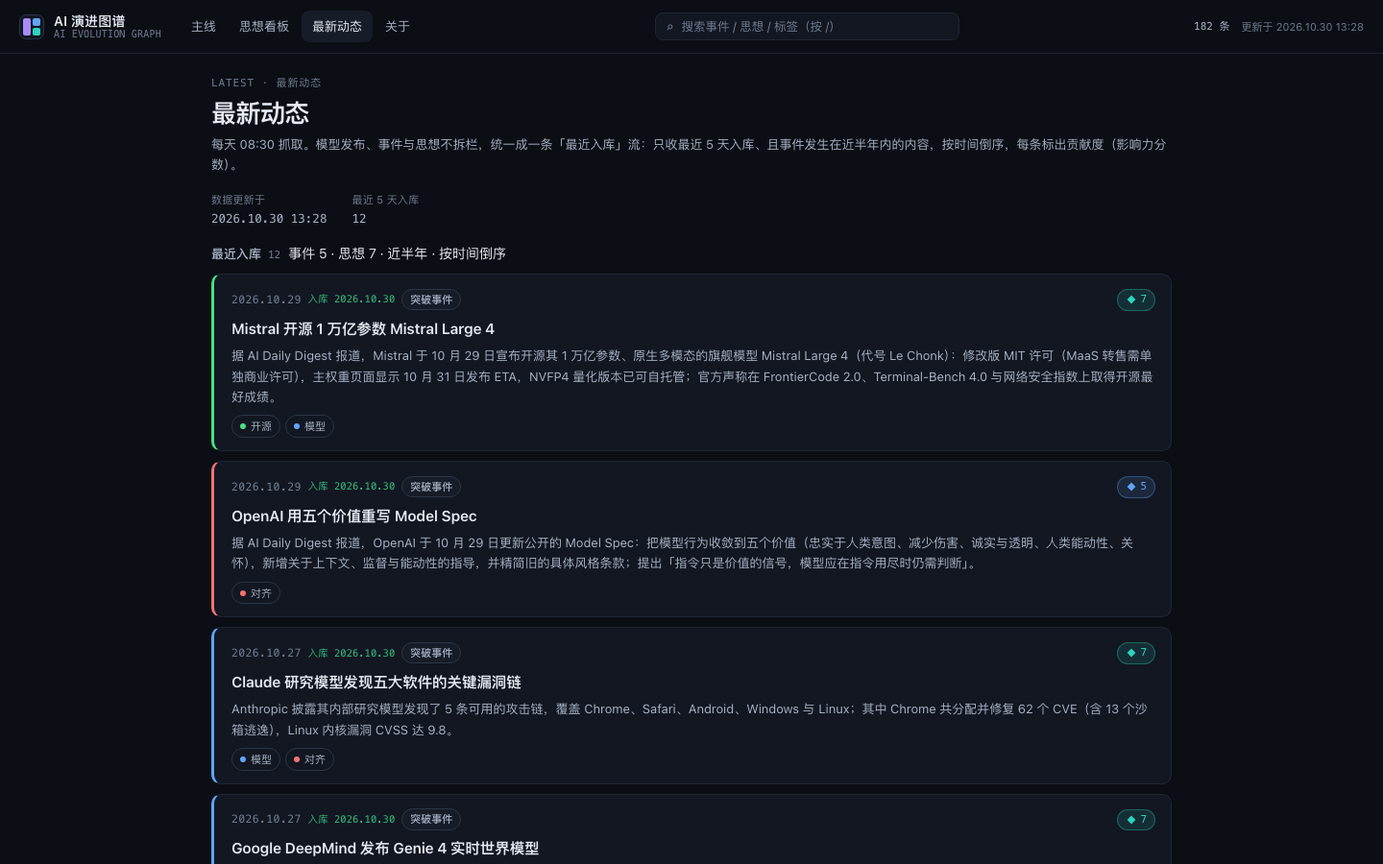
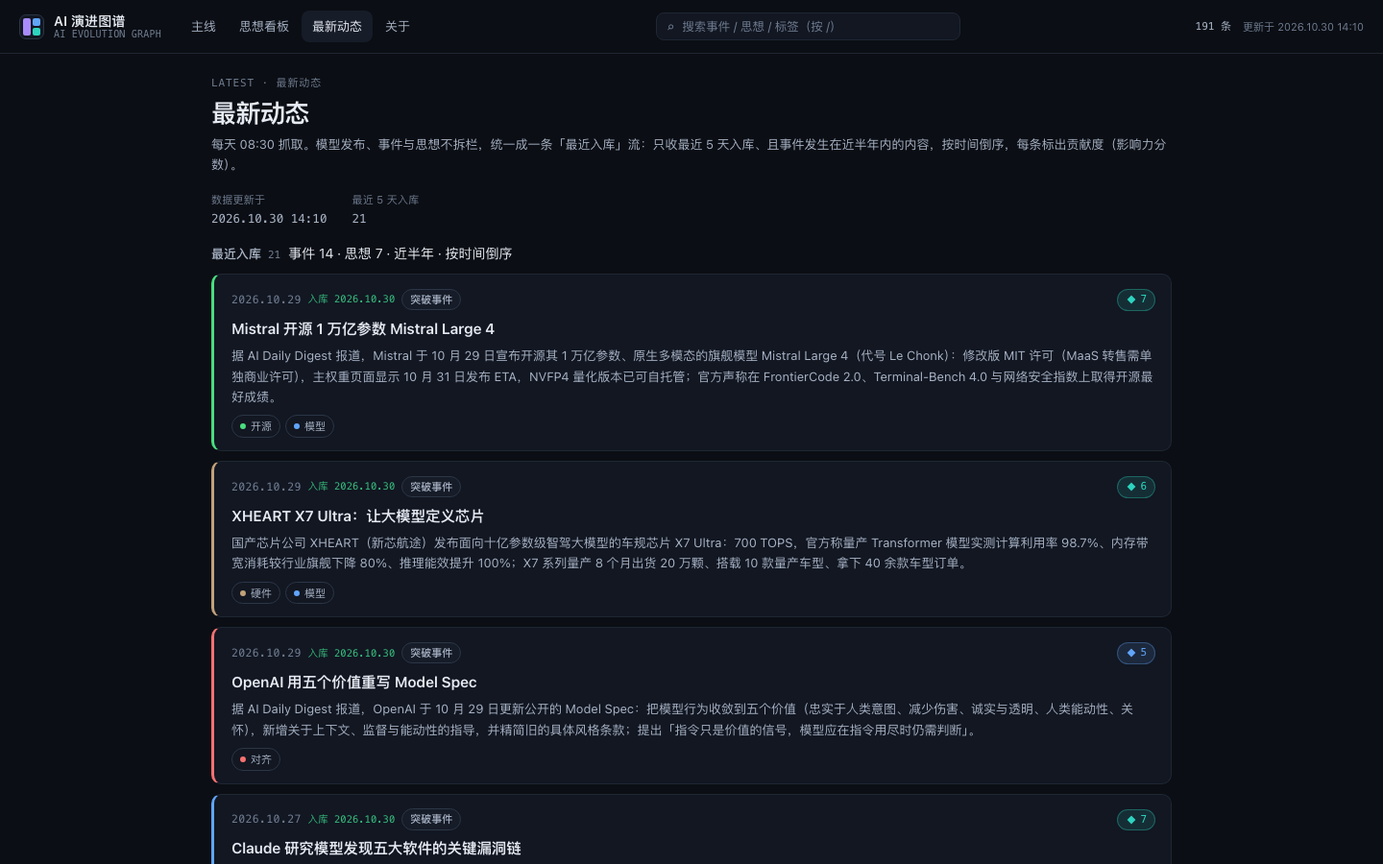
feat(domestic): 补齐国内模型/市场/算力覆盖 + 每日更新必扫清单
- 新增 9 条国内数据（182→191）：Kimi K3.1 Pro、讯飞星火 X2.6、国产算力份额与订单、XHEART X7 Ultra、DeepSeek DeepInfer、高德 λ0、讯飞星辰 TaaS、蚂蚁 LingDT、国产大模型融资；统一打「国内」tag
- 新增 docs/SOURCES.md：机器之心/量子位/腾讯科技等微信公众号 + 厂商/财经/算力/政策源清单、抓取方式与可靠性分级
- docs/UPDATE.md 与每日 08:30 定时任务提示词加入「国内模型/市场/算力/政策/终端」必扫清单与汇报要求（不可遗漏）
- DECISIONS §16 记录覆盖政策；STATUS/M4-ACCEPTANCE 更新
- validate:strict 0/0、42 单测、QA 75/75、build 196 静态页/197 URL

diff --git a/docs/UPDATE.md b/docs/UPDATE.md
@@ -1,7 +1,7 @@
 # 每日更新流程（UPDATE）
 
 目标：**每天更新一次**，新事件/新思想按 `date`（时间轴位置）与 `importance`（面积/评分）自动归位，无需手工摆放。
-本期执行者：Lead（Agent）。部署到 GitHub/Vercel 后迁移为 CI 定时任务（见 §5）。
+本期执行者：Lead（Agent）。信息源清单见 `docs/SOURCES.md`（国内媒体/厂商/算力/市场），每日必须覆盖国内方向。部署到 GitHub/Vercel 后迁移为 CI 定时任务（见 §5）。
 
 ## 1. 触发时间
 
@@ -10,17 +10,23 @@
 
 ## 2. 单次更新步骤
 
-1. **抓取候选**（Web）：官方博客优先、权威媒体次之。
-   - OpenAI：https://openai.com/news/
-   - Anthropic：https://www.anthropic.com/news
-   - Google DeepMind：https://deepmind.google/discover/blog/
-   - Meta AI：https://ai.meta.com/blog/
-   - Google AI：https://blog.google/technology/ai/
-   - Hugging Face：https://huggingface.co/blog
-   - arXiv 最新：https://arxiv.org/list/cs.CL/recent 、https://arxiv.org/list/cs.LG/recent
-   - Hacker News AI：https://news.ycombinator.com/
-   - 中文源（可选）：机器之心、量子位、智源社区
+1. **抓取候选**（Web）：完整源清单见 `docs/SOURCES.md`，每天必须国内 + 海外两边都扫。
+   - 海外官方：OpenAI / Anthropic / Google DeepMind / Meta AI / Google AI / Hugging Face；
+   - 论文：arXiv cs.CL、cs.LG、cs.AI 最新；
+   - 海外社区与媒体：Hacker News、TechCrunch、The Information；
+   - **国内科技媒体（微信公号 + 官网）**：机器之心、量子位、腾讯科技、新智元、智东西、36 氪、晚点 LatePost、科技日报/中国科技网、DeepTech 深科技、硅星人、甲子光年；
+   - **国内市场与资本**：证券时报、21 世纪经济报道、第一财经、财新、界面新闻、同花顺/券商研报摘要（注明「券商观点」）、投资界；
+   - **国内厂商一手**：DeepSeek、阿里通义、月之暗面 Kimi、智谱、字节 Seed/豆包、腾讯混元、百度文心、科大讯飞、MiniMax、阶跃星辰、商汤、高德/阿里 ATH、蚂蚁数科、华为昇腾、寒武纪、摩尔线程、沐曦、壁仞、海光、中芯国际、长鑫存储；
+   - 微信公众号无稳定列表页：用官网/网易号/搜狗微信发现线索，引用时以官网正文 URL 作为 `sources`。
 2. **筛选**：仅收最近 24–72 小时、与 AI 直接相关、影响力 ≥ 4 分的条目；思想/观点类优先（用户强调「新思想非常细、非常有价值」）。
+   **覆盖清单（每天逐项扫，不可遗漏国内方向）**：
+   - 国内模型：发布/开源/权重放出、能力或价格变化；
+   - 国内市场：融资/IPO、价格战、商业化与收入、大厂资本开支；
+   - AI 算力：国产芯片产品与订单、超节点/集群、IDC 份额、出口管制与供应链（HBM/光模块/存储）、智算中心与电力；
+   - 政策与监管：备案、标准、算力券、地方政策；
+   - 具身智能/终端：机器人基座模型、车规芯片、AI 手机/PC；
+   - 全球前沿：模型、论文、agent、评测与安全。
+   国内方向每天至少检查一轮；有重要动态必须入库，确无动态要在汇报里写明「已扫描，无重要新增」。
 3. **起草**：写入 `data/entries/<id>.md`：
    - `date` = 事件公开日期（不是抓取日期）；
    - `added_at` = 今天（用于 NEW 标记）；
@@ -75,6 +81,8 @@
 
 ## 6. 质量红线（更新时必须遵守）
 
+- **国内模型 / 市场 / AI 算力三类方向每天必扫**：不得只看海外；有重要动态必须入库（源清单见 docs/SOURCES.md），无动态要明确说明已扫描；
+- 国内数字（份额、融资额、出货量、增速）必须注明来源与口径；券商研报标注「券商观点」，不当作既成事实；
 - 思想主题要**持续被讨论**：每个主题最新步骤 ≥ 2025，且 2024 年后 ≥ 2 条（validate 会打印主题新鲜度表）；
 - 创新雷达是「旧路径上的新方向」：必须有 `thought_chain`/`maturity`/`why_underrated`，且所属主题至少有 2 条非雷达步骤托底；全库 ≤ 8 条；
 - 最新动态只展示最近 5 天 `added_at` 的入库条目（事件/思想两块），且事件日期须在近 180 天内；补历史不写 `added_at`；

diff --git a/docs/SOURCES.md b/docs/SOURCES.md
@@ -1,0 +1,57 @@
+# 信息源清单（每日更新与选题用）
+
+> 用途：docs/UPDATE.md 的源清单；每日更新必须覆盖「国内模型 / 市场 / 算力」等方向，不能只看海外。
+> 原则：**官方一手 > 主流财经/科技媒体 > 券商研报（注明口径）> 聚合与自媒体**；数字必须注明来源与口径，拿不准就 `needs_review: true`。
+
+## 1. 国内科技媒体（微信公众号 + 官网）
+
+| 媒体 | 官网/入口 | 强项 |
+|---|---|---|
+| 机器之心 | https://www.jiqizhixin.com/ | 论文、模型技术、产业 |
+| 量子位 | https://www.qbitai.com/ | 模型发布、具身智能、产品 |
+| 腾讯科技 | https://tech.qq.com/ | 大厂动态、商业化、访谈 |
+| 新智元 | 微信公众号 / 网易号同步 | 模型与芯片发布、快讯 |
+| 智东西 | https://zhidx.com/ | 芯片、硬件、机器人 |
+| 36 氪 | https://36kr.com/ | 融资、商业化、快讯 |
+| 晚点 LatePost | https://www.latepost.com/ | 大厂组织、战略、深度 |
+| 中国科技网/科技日报 | https://www.stdaily.com/ | 官方科技发布、国产算力 |
+| DeepTech 深科技 | 微信公众号 | 硬科技、芯片 |
+| 硅星人 / APPSO | 微信公众号 | 产品与硅谷视角 |
+| 甲子光年 | 微信公众号 | 产业与投资 |
+
+> 微信公众号没有稳定的公开列表页：用**官网/网易号/搜狗微信**发现线索，引用时以**官网正文 URL**为准。
+
+## 2. 国内厂商官方渠道（一手）
+
+- 模型：DeepSeek、阿里通义/Qwen、月之暗面 Kimi、智谱、字节 Seed/豆包、腾讯混元、百度文心、科大讯飞星火、MiniMax、阶跃星辰、商汤、面壁、零一万物、百川。
+- 产品/终端：高德（阿里 ATH）、蚂蚁数科、华为、小米、OPPO/vivo、荣耀。
+- 算力/芯片：华为昇腾、寒武纪、摩尔线程、沐曦、壁仞、海光、景嘉微、燧原、中芯国际、长鑫存储、长江存储、浪潮信息、工业富联。
+- 政策/监管：工信部、国家网信办、国家发改委、科技部。
+
+## 3. 市场与资本
+
+- 证券时报 https://www.stcn.com/ · 21 世纪经济报道 · 第一财经 · 财新 · 界面新闻
+- 同花顺/东方财富的券商研报摘要（注明「券商观点」，不当作事实）
+- IT 桔子、投资界（融资事件）
+
+## 4. 海外前沿（保持原有）
+
+OpenAI / Anthropic / Google DeepMind / Meta AI / Hugging Face / arXiv(cs.CL, cs.LG, cs.AI) / Hacker News / TechCrunch / The Information / X 官方账号。
+
+## 5. 每日覆盖清单（必须逐项扫，不能遗漏）
+
+1. **国内模型**：新模型发布/开源/权重放出、能力或价格变化、重要技术报告。
+2. **国内市场**：融资/IPO、价格战、商业化与收入、用户规模、大厂资本开支、并购。
+3. **AI 算力**：国产芯片（昇腾/寒武纪/摩尔线程/沐曦/壁仞等）产品与订单、超节点/集群、IDC 份额、出口管制与供应链（HBM/光模块/存储）、智算中心与电力。
+4. **政策与监管**：备案、标准、算力券、地方政策、AI 法案。
+5. **具身智能/终端**：机器人基座模型、车规芯片、AI 手机/PC。
+6. **全球前沿**：模型、论文、agent、评测与安全。
+
+## 6. 判定「值得入库」的标准
+
+- 影响竞争格局：份额、定价、供给、政策变化；
+- 影响开发/使用：新模型、新 API、新框架、成本变化；
+- 影响叙事：关键人物的关键判断、新的技术路线；
+- 数据可核：有日期、数字、来源；不确定的标 `needs_review`，不编造。
+
+> 每日更新时，若上述方向当天确无重要动态，要在汇报里写「已扫描 XX，无重要新增」，而不是默默跳过。

diff --git a/data/entries/domestic-ai-compute-orders-2026.md b/data/entries/domestic-ai-compute-orders-2026.md
@@ -1,0 +1,34 @@
+---
+id: "domestic-ai-compute-orders-2026"
+type: "event"
+title: "国产算力：份额、订单与资本开支同步上行"
+title_en: "China Domestic AI Compute: Share, Orders, Capex"
+date: "2026-10-25"
+importance: 7
+categories: [hardware, org, model]
+summary: "开源证券 10 月 25 日研报梳理国产算力：华为昇腾 384 超节点已部署 750 余套；IDC 数据显示 2025 年中国 AI 加速卡国产厂商份额 41%，2026 上半年英伟达降至 34%、昇腾以 28% 紧随；摩尔线程、沐曦、壁仞、寒武纪 2025 年收入分别同比增长 243.84%、121.27%、207.19%、453.41%，腾讯、阿里、字节资本开支集体上修。"
+significance: "这是「国产替代」从政策叙事变成财务与份额数据的时点：国产卡进入年度迭代节奏，训推分线让国产卡成为重要选项，互联网大厂资本开支上修则给了需求侧支撑。算力供给结构正在被重新分配。"
+quote: ""
+speaker: ""
+occasion: ""
+my_comment: "单季收入暴涨有低基数因素，真正的考验是明年订单交付与生态（编译器、算子、集群稳定性）能否跟上。"
+tags: [国内, 算力, 昇腾, 寒武纪, 国产替代, IDC]
+sources:
+  - "http://field.10jqka.com.cn/20261026/c681060212.shtml"
+relations: []
+needs_review: false
+node_kind: concept
+added_at: 2026-10-30
+---
+
+## 背景
+
+2026 年，AI 算力供给成为中美技术竞争的核心变量。国产 GPU/加速卡经历数年投入后，开始进入规模交付期。
+
+## 核心观点
+
+研报给出的关键数据：昇腾 384 超节点部署 750 余套；IDC 统计 2025 年中国 AI 加速卡国产厂商份额 41%，2026 上半年英伟达份额降至 34%、昇腾 28%；四家国产厂商 2025 年收入同比增速在 121%–453% 之间；腾讯、阿里、字节资本开支集体上修。
+
+## 为什么今天还要读
+
+它把「国产算力行不行」从观点争论变成可跟踪的份额、订单与营收曲线。对判断模型训练成本、推理价格与供应链风险都有直接意义。

diff --git a/data/entries/xheart-x7-ultra-2026.md b/data/entries/xheart-x7-ultra-2026.md
@@ -1,0 +1,35 @@
+---
+id: "xheart-x7-ultra-2026"
+type: "event"
+title: "XHEART X7 Ultra：让大模型定义芯片"
+title_en: "XHEART X7 Ultra"
+date: "2026-10-29"
+importance: 6
+categories: [hardware, model]
+summary: "国产芯片公司 XHEART（新芯航途）发布面向十亿参数级智驾大模型的车规芯片 X7 Ultra：700 TOPS，官方称量产 Transformer 模型实测计算利用率 98.7%、内存带宽消耗较行业旗舰下降 80%、推理能效提升 100%；X7 系列量产 8 个月出货 20 万颗、搭载 10 款量产车型、拿下 40 余款车型订单。"
+significance: "「先理解大模型再设计芯片」是国产芯片在细分场景里绕开通用 GPU 正面竞争的一条路径：用模型侧的真实数据反推架构，把算力利用率与内存带宽做成卖点。智驾是国产大模型芯片最先跑出规模的车规场景。"
+quote: ""
+speaker: ""
+occasion: ""
+my_comment: "98.7% 利用率是厂商口径，需要第三方与真实车队验证；但它至少说明「模型—芯片协同设计」在工程上可行。"
+tags: [国内, 芯片, 智驾, 车规, 大模型定义芯片]
+sources:
+  - "https://www.163.com/dy/article/LAGAB30J0511ABV6.html"
+  - "https://www.163.com/dy/article/LAEAUNQ50527EIDC.html"
+relations: []
+needs_review: false
+node_kind: model
+added_at: 2026-10-30
+---
+
+## 背景
+
+智驾从「小模型流水线」转向端到端大模型后，通用芯片在带宽、精度与能效上开始吃紧。XHEART 选择用合作方 Momenta 的量产模型数据来反向定义芯片架构。
+
+## 核心观点
+
+X7 Ultra 面向十亿参数级智驾大模型：超大核 NPU、专用算子加速、NPU 内部并行、整网内存零拷贝工具链；官方给出 700 TOPS、计算利用率 98.7%、内存带宽 -80%、能效 +100%，并称 X7 系列 8 个月出货 20 万颗。
+
+## 为什么今天还要读
+
+它是「模型定义芯片」这条路径的国产样本：在通用算力受限的背景下，垂直场景 + 软硬协同可能是更现实的突破口。

diff --git a/data/entries/amap-lambda0-2026.md b/data/entries/amap-lambda0-2026.md
@@ -1,0 +1,34 @@
+---
+id: "amap-lambda0-2026"
+type: "event"
+title: "高德发布全身基座模型 λ0：用人类动作数据学全身协调"
+title_en: "Amap Lambda0 Whole-Body Foundation Model"
+date: "2026-10-23"
+importance: 6
+categories: [model, product]
+summary: "高德发布首个基于开放世界行为的全身基座模型 λ0：仅用人类行动数据训练机器人学习移动、姿态与双手操作的全身协调；在 SIMPLE 仿真与多项真机评测中取得 SOTA，数据采集效率约为主流方法的 3.4 倍、真机任务成功率较最强基线提升 22.5%，并开源硬件配置代码与 HumanVerse 数据样例。"
+significance: "它把具身智能的数据瓶颈从「昂贵真机遥操」转向「消费级设备随身采集人类全身动作」，并用人类数据实现零样本跨本体迁移。对国产具身智能路线，这是一条降低成本、可规模化扩数据的方向。"
+quote: ""
+speaker: ""
+occasion: ""
+my_comment: "「人类数据→机器人」的关键在动作对齐与跨本体迁移；22.5% 的提升需要更多任务与第三方复现来确认。"
+tags: [国内, 高德, 具身智能, 全身基座, 人形机器人]
+sources:
+  - "https://www.qbitai.com/2026/10/504905.html"
+relations: []
+needs_review: false
+node_kind: model
+added_at: 2026-10-30
+---
+
+## 背景
+
+现有 VLA 基座多聚焦手部或局部操作，缺少全身协调数据；真机遥操采集又贵又慢，成为具身智能规模化的瓶颈。
+
+## 核心观点
+
+λ0 用消费级设备采集人类全身动作，构建 HumanVerse-500（500 小时开放世界全身数据），通过视角匹配与由粗到细的动作对齐做跨本体迁移；七个全身协调任务上实现零样本真机迁移，采集效率约为真机遥操的 3.4 倍。
+
+## 为什么今天还要读
+
+它给出了一条绕开「机器人采数据」的路径：先把人类经验规模化，再迁移到机器人。若可复现，这会显著改变具身智能的数据成本结构。

diff --git a/data/entries/iflytek-spark-x2-6-2026.md b/data/entries/iflytek-spark-x2-6-2026.md
@@ -1,0 +1,35 @@
+---
+id: "iflytek-spark-x2-6-2026"
+type: "event"
+title: "讯飞星火 X2.6：全国产算力上训练出智能体能力"
+title_en: "iFlytek Spark X2.6"
+date: "2026-10-22"
+importance: 7
+categories: [model, hardware]
+summary: "科大讯飞在 1024 开发者节发布端云一体星火 X2.6：上下文扩至百万 token，首次基于全国产算力实现代码与智能体能力突破；官方称超长上下文训练效率提升约 4 倍、国产集群推理效率提升 4.5 倍，并开源 X2.6-4B 端侧模型。"
+significance: "它把「国产算力只够推理」的质疑推向「训练也能跑通」：全栈国产算力 + 端云一体是国产大模型的一条差异化路线，对算力自主可控的讨论有直接参考价值。"
+quote: ""
+speaker: ""
+occasion: ""
+my_comment: "国产卡训练前沿模型的真实成色，最终要看第三方复现与持续迭代，而不是单场发布会。"
+tags: [国内, 科大讯飞, 国产算力, 端云一体, 智能体]
+sources:
+  - "https://www.stdaily.com/web/gdxw/2026-10/23/content_601627.html"
+  - "https://www.qbitai.com/2026/10/505083.html"
+relations: []
+needs_review: false
+node_kind: model
+added_at: 2026-10-30
+---
+
+## 背景
+
+国产 AI 芯片长期被质疑「能推理、难训练」。科大讯飞在 2026 全球 1024 开发者节上发布端云一体星火 X2.6，并强调训练与推理都在全国产算力上完成。
+
+## 核心观点
+
+官方数据：百万 token 上下文；长程任务动态并行训练让超长上下文训练效率提升约 4 倍；国产集群上的自适应存算协同推理与四层 KVCache 让推理效率提升 4.5 倍；端云路由准确率从 81.2% 提升到 96.1%；X2.6-4B 端侧模型开源。
+
+## 为什么今天还要读
+
+它给出了「全栈自主可控」的一条完整叙事：不只是把模型搬到国产卡上推理，而是在国产平台上完成训练。这条路线能否规模化，取决于后续模型迭代与第三方评测。

diff --git a/docs/STATUS.md b/docs/STATUS.md
@@ -24,7 +24,7 @@
 - 最新动态 v4：单一「最近入库」流（不再拆事件/思想），窗口=近 5 天入库 + 事件近 180 天；按时间倒序；每条标类型与影响力分数；创新雷达仅中性小标签
 - 搜索：加权、高亮、类别/年份/影响力筛选、URL 状态、`/` 快捷键
 - 每日更新：会话内 08:30 定时（新闻+创新信号 → 校验/构建 → `curate:apply` 主线晋升淘汰）
-- 数据：182 条（171 条 2012+ / 11 条奠基），40 insight，24 needs_review，来源覆盖 98%；11 个思想主题共 90 步
+- 数据：191 条（180 条 2012+ / 11 条奠基），41 insight，24 needs_review，来源覆盖 98%；11 个思想主题共 90 步；本轮新增 9 条国内覆盖（Kimi K3.1 Pro、讯飞星火 X2.6、国产算力份额/订单、XHEART 芯片、DeepInfer、高德 λ0、星辰 TaaS、LingDT、大模型融资）
 - 数据治理：`MAINLINE_CAP=32`，重要性≥8 可晋升，满则淘汰最低分（10 分保护）
 
 ## 未决（不阻塞，等用户拍板）
@@ -54,4 +54,4 @@ npm run qa:ui       # 无头 Chrome 验收（75 项，含导图视图）
 
 ## 文档地图
 
-`docs/DECISIONS.md`（为什么这样做，§13 是本轮新定义）· `docs/PROPOSAL-M4.md`（本轮方案）· `docs/M4-ACCEPTANCE.md`（本轮验收）· `docs/UPDATE.md`（加条目）· `docs/DEPLOY.md`（发布/部署）· `docs/SEO.md` · `docs/DOMESTIC-LAUNCH.md`（国内上线）· `docs/BEGINNER-GUIDE.md` · `docs/M1–M3.5-ACCEPTANCE.md`（各里程碑验收）
+`docs/DECISIONS.md`（为什么这样做，§13–§16 是本轮定义）· `docs/SOURCES.md`（信息源清单：国内媒体/厂商/算力/市场）· `docs/PROPOSAL-M4.md`（本轮方案）· `docs/M4-ACCEPTANCE.md`（本轮验收）· `docs/UPDATE.md`（加条目）· `docs/DEPLOY.md`（发布/部署）· `docs/SEO.md` · `docs/DOMESTIC-LAUNCH.md`（国内上线）· `docs/BEGINNER-GUIDE.md` · `docs/M1–M3.5-ACCEPTANCE.md`（各里程碑验收）

diff --git a/data/entries/kimi-k3-1-pro-2026.md b/data/entries/kimi-k3-1-pro-2026.md
@@ -1,0 +1,34 @@
+---
+id: "kimi-k3-1-pro-2026"
+type: "event"
+title: "Kimi K3.1 Pro：3T 级开源权重模型"
+title_en: "Kimi K3.1 Pro"
+date: "2026-10-23"
+importance: 7
+categories: [model, opensource]
+summary: "月之暗面发布 Kimi K3.1 Pro：3T 级开源权重模型、100 万 token 上下文，主打编程、3D 创作与金融研究等智能体能力；Terminal-Bench 4.0 得分 65.7%，官方称完整权重将于 11 月 4 日前开放。"
+significance: "这是国产模型在「开源权重 + 前沿能力」组合上的又一次冲顶：3T 级规模、百万上下文、智能体基准接近闭源头部，并把开放权重的时间表写进发布页。它把「开源模型只能追赶」的叙事又往前推了一步。"
+quote: ""
+speaker: ""
+occasion: ""
+my_comment: "开源权重已经是国产模型争夺开发者与话语权的主战场；真正要观察的是权重放出后的真实可用性与后续迭代速度。"
+tags: [国内, Kimi, 月之暗面, 开源权重, 长上下文, 智能体]
+sources:
+  - "https://www.kimi.ai/blog/kimi-k3-1-pro"
+relations: []
+needs_review: false
+node_kind: model
+added_at: 2026-10-30
+---
+
+## 背景
+
+2026 年下半年，开源权重模型的参数规模与能力持续上探。Kimi K3.1 Pro 是 K3 的后训练版本，官方把它定位为「3T 级开源权重模型」，并首次把百万 token 上下文与智能体能力打包发布。
+
+## 核心观点
+
+官方技术博客给出的重点：编程、3D 创作、金融研究与智能体任务全面增强；Terminal-Bench 4.0 得分 65.7%，Kimi Code Bench 3.0 Long-horizon 61.2%；权重将在 11 月 4 日前放出。发布同时上线 Kimi.ai、Kimi Work、Kimi Code 与 API。
+
+## 为什么今天还要读
+
+它代表国产模型的两条线同时推进：能力追前沿、权重更开放。对开发者而言，「等权重放出后本地能跑成什么样」比发布日的榜单分数更值得跟踪。

diff --git a/data/entries/deepseek-deepinfer-2026.md b/data/entries/deepseek-deepinfer-2026.md
@@ -1,0 +1,34 @@
+---
+id: "deepseek-deepinfer-2026"
+type: "event"
+title: "DeepSeek 开源内部推理框架 DeepInfer"
+title_en: "DeepSeek Open-Sources DeepInfer"
+date: "2026-10-20"
+importance: 6
+categories: [opensource, model]
+summary: "DeepSeek 于 10 月 20 日宣布将内部推理框架 DeepInfer 全面开源，称希望把大规模部署经验开放给开发者与企业，优化吞吐与延迟、降低算力成本与能耗；官方表示已用 DeepInfer 支撑 DeepSeek V4.1 Flash 的高吞吐推理，后续新模型推理代码也将持续在该项目更新。"
+significance: "模型公司开始把竞争从「模型权重」延伸到「推理基础设施」：在算力紧张、推理成本决定商业模式的阶段，开源推理框架能把生态与部署标准一起握住，也直接利好国产算力适配。"
+quote: ""
+speaker: ""
+occasion: ""
+my_comment: "这类「推理栈开源」比多一个模型榜单更能改变成本曲线；值得关注它能否在国产卡上跑出同等效率。"
+tags: [国内, DeepSeek, 推理框架, 开源, 算力成本]
+sources:
+  - "https://www.stcn.com/article/detail/4228904.html"
+relations: []
+needs_review: false
+node_kind: concept
+added_at: 2026-10-30
+---
+
+## 背景
+
+推理成本正在成为大模型商业化的核心约束：长上下文、智能体与高并发把算力开销推到前台，推理框架的效率直接决定单位 token 成本与能耗。
+
+## 核心观点
+
+DeepSeek 把内部推理框架 DeepInfer 全面开源，并称已用其支撑 V4.1 Flash 的大规模推理；官方将部署经验开放，目标是让企业优化吞吐与延迟、降低算力成本与能耗。
+
+## 为什么今天还要读
+
+它标志着国产模型厂商的竞争进入「模型 + 推理栈 + 算力适配」的组合阶段。对自建部署的团队，这是可以直接评估的降本工具。

diff --git a/data/entries/ant-lingdt-decision-2026.md b/data/entries/ant-lingdt-decision-2026.md
@@ -1,0 +1,24 @@
+---
+id: "ant-lingdt-decision-2026"
+type: "event"
+title: "蚂蚁数科发布决策模型 LingDT-Decision-1.0"
+title_en: "Ant Digital LingDT-Decision-1.0"
+date: "2026-10-22"
+importance: 5
+categories: [model, product]
+summary: "蚂蚁数科于 10 月 22 日发布决策模型 LingDT-Decision-1.0，提供 4B 与 27B 两个版本，已在智能客服、安全风控、金融应用等真实业务场景展开测试；据券商研报转述，其 token 消耗较传统大模型降低超 90%、响应速度提升约 10 倍。"
+significance: "它代表「垂直决策模型」路线：不追求通用对话能力，而是把金融风控等场景的任务结构做进模型，用更小参数换成本与时延。对行业大模型的商业化，这是一条与通用大模型不同的竞争维度。"
+quote: ""
+speaker: ""
+occasion: ""
+my_comment: "「token 消耗降 90%」是厂商/研报口径，需要看具体任务与基线；决策模型的护城河在数据与业务闭环，而非榜单。"
+tags: [国内, 蚂蚁数科, 决策模型, 金融科技, 风控]
+sources:
+  - "https://www.163.com/dy/article/L9S3K8NP0534A4SC.html"
+  - "http://field.10jqka.com.cn/20261026/c681060212.shtml"
+relations: []
+needs_review: false
+node_kind: model
+added_at: 2026-10-30
+---
+

diff --git a/data/entries/domestic-llm-funding-2026.md b/data/entries/domestic-llm-funding-2026.md
@@ -1,0 +1,23 @@
+---
+id: "domestic-llm-funding-2026"
+type: "event"
+title: "国产大模型融资升温：阶跃星辰近 25 亿美元、月之暗面 20 亿美元"
+title_en: "China LLM Funding: StepFun and Moonshot"
+date: "2026-05-08"
+importance: 6
+categories: [org]
+summary: "据 21 世纪经济报道，阶跃星辰将完成近 25 亿美元融资并加速赴港上市进程，月之暗面也将完成约 20 亿美元融资；此前智谱、MiniMax 已在港股上市，产业资本（手机 ODM、图像传感器、终端厂商）集中入场，模型公司向终端侧突围。"
+significance: "融资与 IPO 是国产大模型进入「资本化 + 商业化验证」阶段的信号：钱从财务投资人转向产业链资本，说明模型能力正被要求嵌入手机、汽车等终端出货。市场开始用收入与上市进度而不是参数规模来定价。"
+quote: ""
+speaker: ""
+occasion: ""
+my_comment: "融资额不等于竞争力；更值得跟踪的是端侧分成、云消耗与上市后的毛利结构。"
+tags: [国内, 融资, 阶跃星辰, 月之暗面, IPO, 市场]
+sources:
+  - "https://www.stcn.com/article/detail/3899844.html"
+relations: []
+needs_review: false
+node_kind: company
+added_at: 2026-10-30
+---
+
